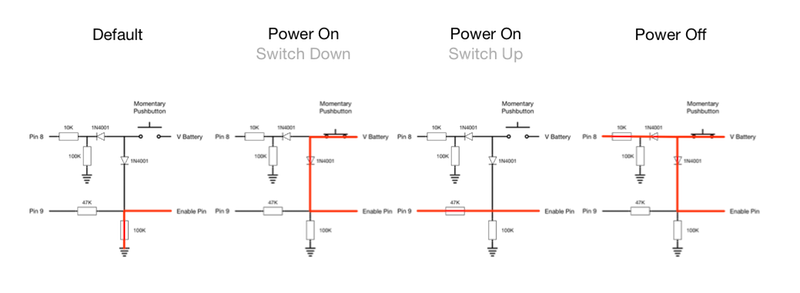
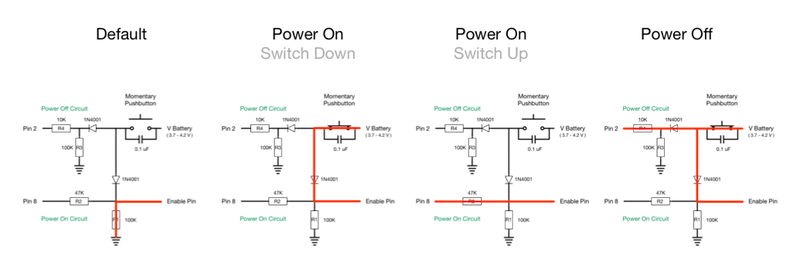
update images for the interrupt circuit

diff --git a/PowerOnPowerOff.md b/PowerOnPowerOff.md
@@ -10,9 +10,10 @@ the Arduino shuts down.
 
 With the more complex versions of this, the system logs a shutdown message, etc., before actually shutting down.
 
-**NOTE** There are two variants of the software used with this circuit. The first checks for a button press
-every cycle of the *loop()* function, whereas the second uses an **Interrupt** in cases where the loop cycle time
-is more than about a second. I'll describe the basic version first and then discuss the changes needed for the interrupt version.
+**NOTE** This example uses an arduino **Interrupt** to detect the *power Off* button press. This frees up the rest of the
+code to do its thing. For example, you might have it take a sensor measurement every 30 minutes and sleep during the interval.
+Interrupts on Arduino can be quite complicated but this version is straightforward.
+
 
 ###How this works
 
@@ -21,7 +22,7 @@ via the 5V pin on the Arduino headers. The Blue LED on the shield is lit when it
 
 If that pin is connected to ground, through **R1** in the schematic below, then the PowerBoost is disabled and does not provide power.
 
-You add two functions, **ArduinoPowerSetup** and **ArduinoPowerMonitor**, to your code which configure **digital pins 8 and 9**
+You add two functions, **ArduinoPowerSetup** and **ArduinoPowerMonitor**, to your code which configure **digital pins 8 and 2**
 as input and output, respectively.
 
 ![Power On / Power Off Circuit](/images/power_on_power_off_schematic.png)
@@ -31,14 +32,14 @@ as input and output, respectively.
 When the pushbutton is pressed, the battery voltage is connected to the **Enable pin** and pulls it HIGH, which turns on the
 PowerBoost output and which, in turn, boots the Arduino.
 
-The **ArduinoPowerSetup** function, included in your program, sets Arduino **digitial pin 9** to **output** and HIGH.
+The **ArduinoPowerSetup** function, included in your program, sets Arduino **digitial pin 8** to **output** and HIGH.
 This ensures that the **Enable pin** remains high when the pushbutton is released, ensuring that the PowerBoost remains on.
 
 ####Power Off
-The **ArduinoPowerSetup** function has configured Arduino **digital pin 8** as an input and resistor **R3** pulls this LOW.
+The **ArduinoPowerSetup** function has configured Arduino **digital pin 2** as an input and resistor **R3** pulls this LOW.
 
-On a running system, pressing the pushbutton again, pulls **pin 8** HIGH. The **ArduinoPowerMonitor** function
-in your program monitors this and sets **pin 9** to LOW.
+On a running system, pressing the pushbutton again, pulls **pin 2** HIGH. The **ArduinoPowerMonitor** function
+in your program monitors this and sets **pin 8** to LOW.
 
 This should set the **Enable pin** to LOW and turn off the PowerBoost. However, because the pushbutton is **down**, the
 **Enable pin** remains HIGH given the voltage from the battery. It is only when the pushbutton is **released** that voltage is removed
